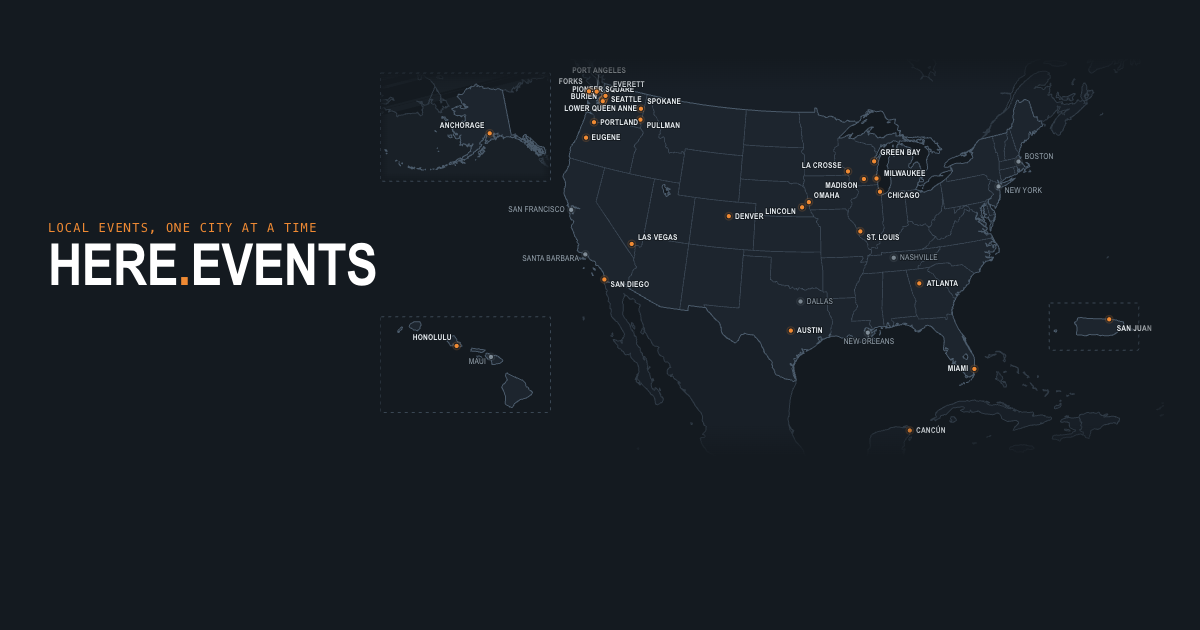
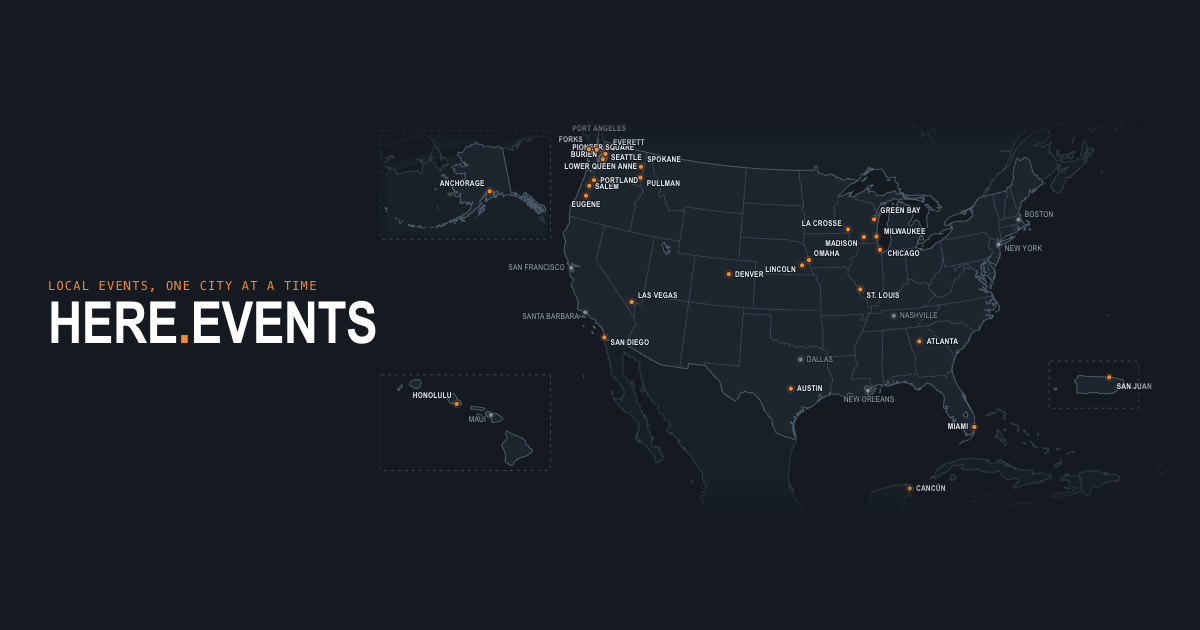
Salem on the map: live pin, city list, sitemap index, here.events/salem redirect, share card re-shot
Claude-Session: https://claude.ai/code/session_01R4EVRie1HpcN6C9JjfgYCH

diff --git a/site/404.html b/site/404.html
@@ -8,7 +8,7 @@
 <script>
 // here.events/<city or neighbourhood>/anything → that host, the rest of the address kept
 (function () {
-  var to = {"lqa":"https://lqa.seattle.here.events/","pioneersquare":"https://pioneersquare.seattle.here.events/","seattle":"https://seattle.here.events/","burien":"https://burien.here.events/","everett":"https://everett.here.events/","forks":"https://forks.here.events/","portangeles":"https://portangeles.here.events/","spokane":"https://spokane.here.events/","pullman":"https://pullman.here.events/","eugene":"https://eugene.here.events/","portland":"https://portland.here.events/","sandiego":"https://sandiego.here.events/","lasvegas":"https://lasvegas.here.events/","denver":"https://denver.here.events/","honolulu":"https://honolulu.here.events/","austin":"https://austin.here.events/","stlouis":"https://stlouis.here.events/","chicago":"https://chicago.here.events/","milwaukee":"https://milwaukee.here.events/","madison":"https://madison.here.events/","lacrosse":"https://lacrosse.here.events/","greenbay":"https://greenbay.here.events/","atlanta":"https://atlanta.here.events/","miami":"https://miami.here.events/","cancun":"https://cancun.here.events/","omaha":"https://omaha.here.events/","lincoln":"https://lincoln.here.events/","sanjuan":"https://sanjuan.here.events/","anchorage":"https://anchorage.here.events/"};
+  var to = {"lqa":"https://lqa.seattle.here.events/","pioneersquare":"https://pioneersquare.seattle.here.events/","seattle":"https://seattle.here.events/","burien":"https://burien.here.events/","everett":"https://everett.here.events/","forks":"https://forks.here.events/","portangeles":"https://portangeles.here.events/","spokane":"https://spokane.here.events/","pullman":"https://pullman.here.events/","eugene":"https://eugene.here.events/","salem":"https://salem.here.events/","portland":"https://portland.here.events/","sandiego":"https://sandiego.here.events/","lasvegas":"https://lasvegas.here.events/","denver":"https://denver.here.events/","honolulu":"https://honolulu.here.events/","austin":"https://austin.here.events/","stlouis":"https://stlouis.here.events/","chicago":"https://chicago.here.events/","milwaukee":"https://milwaukee.here.events/","madison":"https://madison.here.events/","lacrosse":"https://lacrosse.here.events/","greenbay":"https://greenbay.here.events/","atlanta":"https://atlanta.here.events/","miami":"https://miami.here.events/","cancun":"https://cancun.here.events/","omaha":"https://omaha.here.events/","lincoln":"https://lincoln.here.events/","sanjuan":"https://sanjuan.here.events/","anchorage":"https://anchorage.here.events/"};
   var parts = location.pathname.split('/').filter(Boolean);
   var dest = parts.length && to[parts[0].toLowerCase()];
   if (dest) location.replace(dest + parts.slice(1).join('/') + location.search + location.hash);

diff --git a/site/salem/index.html b/site/salem/index.html
@@ -1,0 +1,12 @@
+<!doctype html>
+<!-- here.events short address: written by scripts/cities-static.mjs -->
+<html lang="en">
+<head>
+<meta charset="utf-8">
+<title>Salem — here.events</title>
+<link rel="canonical" href="https://salem.here.events/">
+<meta http-equiv="refresh" content="0; url=https://salem.here.events/">
+<script>location.replace("https://salem.here.events/" + location.search + location.hash)</script>
+</head>
+<body><p><a href="https://salem.here.events/">Salem is at salem.here.events</a></p></body>
+</html>

diff --git a/site/index.html b/site/index.html
@@ -158,6 +158,7 @@
       <section><h3>Oregon</h3><ul>
         <li><a href="https://eugene.here.events/">Eugene</a></li>
         <li><a href="https://portland.here.events/">Portland</a></li>
+        <li><a href="https://salem.here.events/">Salem</a></li>
       </ul></section>
       <section><h3>Puerto Rico</h3><ul>
         <li><a href="https://sanjuan.here.events/">San Juan</a></li>
